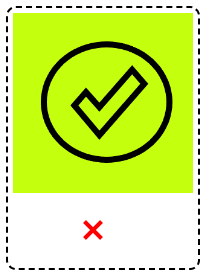
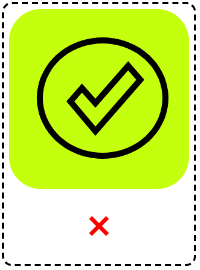
version 1.2.0 created

Changed region(s): [[0.0, 0.0, 0.99, 1.0], [0.18, 0.1185, 0.87, 0.5926], [0.39, 0.8, 0.54, 0.8889]]

diff --git a/src/components/VueImageInput.vue b/src/components/VueImageInput.vue
@@ -2,11 +2,11 @@
   <div :class="containerSize + ' container' + ' ' + border" @drop="handleDrop" @dragover.prevent>
     <template v-if="!imageSrc">
       <input class="input" type="file" v-on:change="onChange" :accept="mimes" multiple>
-      <button @click.prevent="openInput" :class="size + ' ' + background + ' ' + textColor">{{ title }}</button>
+      <button @click.prevent="openInput" :class="size + ' btn ' + background + ' ' + textColor">{{ title }}</button>
     </template>
     <template v-if="imageSrc" :class="size">
       <img :src="imageSrc" :class="'w-full image ' + imageRounded">
-      <div @click="deleteFile" class="cancel"></div>
+      <div @click="deleteFile" :class="'close ' + closeBtn"></div>
     </template>
   </div>
 </template>
@@ -21,8 +21,9 @@ export default {
     'background',
     'textColor',
     'border',
-    'imageRounded',
     'mimes', //'.jpg,.png',
+    'imageRounded',
+    'closeBtn'
   ],
 
   data() {
@@ -107,21 +108,27 @@ button {
   display: none;
 }
 
+.btn {
+  cursor: pointer;
+}
+
 image {
   max-width: 100%;
   max-height: 80%;
 }
 
-.cancel {
+.close {
   cursor: pointer;
   position: relative;
-  padding-right: 24px;
+  padding-right: 5px;
   padding-bottom: 35px;
+  margin-right: auto;
+  margin-left: auto;
   width: 20px;
 }
 
-.cancel:before,
-.cancel:after {
+.close:before,
+.close:after {
   content: "";
   position: absolute;
   width: 24px;
@@ -129,12 +136,92 @@ image {
   background: red;
 }
 
-.cancel:before {
+.close:before {
   transform: rotate(45deg);
 }
 
-.cancel:after {
+.close:after {
   transform: rotate(-45deg);
+}
+
+.close:hover {
+  opacity: 75%;
+}
+
+.close-black:after, .close-black:before {
+  background: #000;
+}
+
+.close-blue:after, .close-blue:before {
+  background: blue;
+}
+
+.close-white:after, .close-white:before {
+  background: #fff;
+}
+
+.close-red:after, .close-red:before {
+  background: red;
+}
+
+.close-green:after, .close-green:before {
+  background: #0fca0f
+}
+
+.close-grey:after, .close-grey:before {
+  background: grey;
+}
+
+.close-yellow:after, .close-yellow:before {
+  background: yellow;
+}
+
+.close-dark-gray:after, .close-dark-gray:before {
+  background: darkgray;
+}
+
+.close-maroon:after, .close-maroon:before {
+  background: maroon;
+}
+
+.hover-opacity-10:hover {
+  opacity: 10%;
+}
+
+.hover-opacity-20:hover {
+  opacity: 20%;
+}
+
+.hover-opacity-30:hover {
+  opacity: 30%;
+}
+
+.hover-opacity-40:hover {
+  opacity: 40%;
+}
+
+.hover-opacity-50:hover {
+  opacity: 50%;
+}
+
+.hover-opacity-60:hover {
+  opacity: 60%;
+}
+
+.hover-opacity-70:hover {
+  opacity: 70%;
+}
+
+.hover-opacity-80:hover {
+  opacity: 80%;
+}
+
+.hover-opacity-90:hover {
+  opacity: 90%;
+}
+
+.hover-opacity-100:hover {
+  opacity: 100%;
 }
 
 .size-4 {
@@ -388,6 +475,18 @@ image {
   background: grey;
 }
 
+.bg-yellow {
+  background: yellow;
+}
+
+.bg-dark-gray {
+  background: darkgray;
+}
+
+.bg-maroon {
+  background: maroon;
+}
+
 .bg-blue {
   background: blue;
 }
@@ -414,6 +513,18 @@ image {
 
 .text-grey {
   color: grey;
+}
+
+.text-yellow {
+  color: yellow;
+}
+
+.text-dark-gray {
+  color: darkgray
+}
+
+.text-maroon {
+  color: maroon;
 }
 
 .border-none {
@@ -462,7 +573,18 @@ image {
 
 .border-grey {
   border-color: grey;
-  ;
+}
+
+.border-yellow {
+  border-color: yellow;
+}
+
+.border-dark-gray {
+  border-color: darkgray;
+}
+
+.border-maroon {
+  border-color: maroon;
 }
 
 .border-solid {

diff --git a/README.md b/README.md
@@ -4,14 +4,12 @@ This is a simple input for image
 
 ![screen](https://github.com/DMITRII1548/Vue-Image-Input/blob/master/assets/Screenshot_1.png)
 ![screen](https://github.com/DMITRII1548/Vue-Image-Input/blob/master/assets/Screenshot_2.png)
-
 ## What's new?
 
-1. Added new background class: bg-none
+1. Added new prop closeBtn.
+2.  changed design close btn.
 
-2. Added blue color
-
-3. Add new prop imageRounded
+3. added new colors: ![yellow](https://placehold.co/15x15/yellow/yellow.png) `yellow`, ![darkgray](https://placehold.co/15x15/darkgray/darkgray.png) `darkgray`, ![maroon](https://placehold.co/15x15/maroon/maroon.png) `maroon`.
 
 ## Installation 
 
@@ -99,30 +97,36 @@ Background color
 
 ### params
 
-| param       | value   | 
-| ----------- |:-------:| 
-| bg-none     | none    | 
-| bg-default  | #dadada | 
-| bg-white    | #fff    | 
-| bg-black    | #000    | 
-| bg-blue     | blue    | 
-| bg-red      | red     | 
-| bg-grey     | grey    |
-| bg-green    | #0fcaof | 
+| param         | value                                                                      | 
+| ------------- |:--------------------------------------------------------------------------:| 
+| bg-none       | none                                                                       | 
+| bg-default    | ![#dadada](https://placehold.co/15x15/dadada/dadada.png) `#dadada`         | 
+| bg-white      | ![#fff](https://placehold.co/15x15/fff/fff.png) `#fff`                     | 
+| bg-black      | ![#000](https://placehold.co/15x15/000/000.png) `#000`                     | 
+| bg-blue       | ![blue](https://placehold.co/15x15/blue/blue.png) `blue`                   | 
+| bg-red        | ![red](https://placehold.co/15x15/red/red.png) `red`                       | 
+| bg-grey       | ![grey](https://placehold.co/15x15/grey/grey.png) `grey`                   |
+| bg-green      | ![#0FCA0F](https://placehold.co/15x15/0FCA0F/0FCA0F.png) `#0FCA0F`         | 
+| bg-yellow     | ![yellow](https://placehold.co/15x15/yellow/yellow.png) `yellow`           |
+| bg-dark-gray  | ![darkgray](https://placehold.co/15x15/darkgray/darkgray.png) `darkgray`   |
+| bg-maroon     | ![yellow](https://placehold.co/15x15/maroon/maroon.png) `maroon`           |
 
 
 ### textColor
 Text color
 ### params
 
-| param       | value   | 
-| ----------- |:-------:| 
-| text-black  | #000    | 
-| text-blue   | blue    | 
-| text-white  | #fff    | 
-| text-red    | red     | 
-| text-grey   | grey    |
-| text-green  | #0fca0f | 
+| param           | value                                                                    | 
+| --------------- |:------------------------------------------------------------------------:| 
+| text-black      | ![#000](https://placehold.co/15x15/000/000.png) `#000`                   | 
+| text-blue       | ![blue](https://placehold.co/15x15/blue/blue.png) `blue`                 | 
+| text-white      | ![#fff](https://placehold.co/15x15/fff/fff.png) `#fff`                   | 
+| text-red        | ![red](https://placehold.co/15x15/red/red.png) `red`                     | 
+| text-grey       | ![grey](https://placehold.co/15x15/grey/grey.png) `grey`                 |
+| text-green      | ![#0FCA0F](https://placehold.co/15x15/0FCA0F/0FCA0F.png) `#0FCA0F`       | 
+| text-yellow     | ![yellow](https://placehold.co/15x15/yellow/yellow.png) `yellow`         |
+| text-dark-gray  | ![darkgray](https://placehold.co/15x15/darkgray/darkgray.png) `darkgray` |
+| text-maroon     | ![yellow](https://placehold.co/15x15/maroon/maroon.png) `maroon`         |
 
 
 
@@ -130,24 +134,27 @@ Text color
 Border params: border-style, border-width, 
 ### params
 
-| param         | value                | 
-| ------------- |:--------------------:| 
-| border-none   | border: none         |
-| border        | border-width: 1px    |
-| border-2      | border-width: 2px    |
-| border-3      | border-width: 3px    |
-| border-4      | border-width: 4px    |
-| border-5      | border-width: 5px    |
-| border-black  | #000                 |
-| border-blue   | blue                 |
-| border-white  | #fff                 |
-| border-red    | red                  |
-| border-grey   | grey                 |
-| border-green  | #0fca0f              |
-| border-solid  | border-style: solid  |
-| border-dashed | border-style: dashed |
-| border-dotted | border-style: dotted |
-| border-double | border-style: double |
+| param             | value                                                                        | 
+| ----------------- |:----------------------------------------------------------------------------:| 
+| border-none       | border: none                                                                 |
+| border            | border-width: 1px                                                            |
+| border-2          | border-width: 2px                                                            |
+| border-3          | border-width: 3px                                                            |
+| border-4          | border-width: 4px                                                            |
+| border-5          | border-width: 5px                                                            |
+| border-black      | ![#000](https://placehold.co/15x15/000/000.png) `#000`                       |
+| border-blue       | ![blue](https://placehold.co/15x15/blue/blue.png) `blue`                     |
+| border-white      | ![#fff](https://placehold.co/15x15/fff/fff.png) `#fff`                       |
+| border-red        | ![red](https://placehold.co/15x15/red/red.png) `red`                         |
+| border-grey       | ![grey](https://placehold.co/15x15/grey/grey.png) `grey`                     |
+| border-green      | ![#0FCA0F](https://placehold.co/15x15/0FCA0F/0FCA0F.png) `#0FCA0F`           |
+| border-yellow     | ![yellow](https://placehold.co/15x15/yellow/yellow.png) `yellow`         |
+| border-dark-gray  | ![darkgray](https://placehold.co/15x15/darkgray/darkgray.png) `darkgray` |
+| border-maroon     | ![yellow](https://placehold.co/15x15/maroon/maroon.png) `maroon`         |
+| border-solid      | border-style: solid                                                          |
+| border-dashed     | border-style: dashed                                                         |
+| border-dotted     | border-style: dotted                                                         |
+| border-double     | border-style: double                                                         |
 
 
 ### imageRounded
@@ -155,7 +162,7 @@ thank this prop you can round image
 
 ### params
 
-| param       | value   | 
+| param        | value   | 
 | ------------ |:-------:| 
 | rounded-full | 50%     |
 | rounded-2    | 2px     | 
@@ -175,6 +182,37 @@ thank this prop you can round image
 | rounded-30   | 30px    |
 | rounded-32   | 32px    |
 
+### closeBtn 
+styles for closeBtn 
+
+### params 
+
+When :hover
+
+| param             | value           | 
+| ----------------- |:---------------:| 
+| hover-opacity-10  | opacity: 10%    |
+| hover-opacity-20  | opacity: 20%    |
+| hover-opacity-30  | opacity: 30%    |
+| hover-opacity-40  | opacity: 40%    |
+| hover-opacity-50  | opacity: 50%    |
+| hover-opacity-60  | opacity: 60%    |
+| hover-opacity-70  | opacity: 70%    |
+| hover-opacity-80  | opacity: 80%    |
+| hover-opacity-90  | opacity: 90%    |
+| hover-opacity-100 | opacity: 100%   |
+
+| param            | value                                                                      | 
+| ---------------- |:--------------------------------------------------------------------------:| 
+| close-black      | ![#000](https://placehold.co/15x15/000/000.png) `#000`                     |
+| close-blue       | ![blue](https://placehold.co/15x15/blue/blue.png) `blue`                   |
+| close-white      | ![#fff](https://placehold.co/15x15/fff/fff.png) `#fff`                     |
+| close-red        | ![red](https://placehold.co/15x15/red/red.png) `red`                       |
+| close-green      | ![#0FCA0F](https://placehold.co/15x15/0FCA0F/0FCA0F.png) `#0FCA0F`         |
+| close-grey       | ![grey](https://placehold.co/15x15/grey/grey.png) `grey`                   |
+| close-yellow     | ![yellow](https://placehold.co/15x15/yellow/yellow.png) `yellow`           |
+| close-dark-gray  | ![darkgray](https://placehold.co/15x15/darkgray/darkgray.png) `darkgray`   |
+| close-maroon     | ![yellow](https://placehold.co/15x15/maroon/maroon.png) `maroon`           |
 
 ### mimes
 accepted types of files
